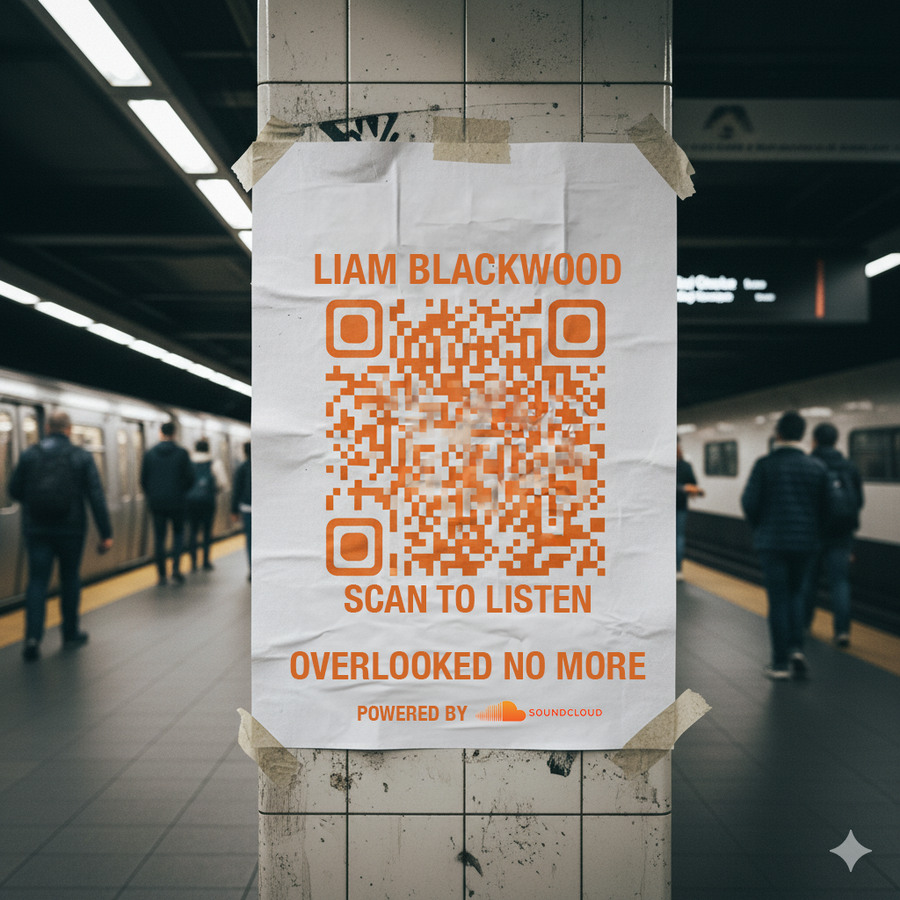
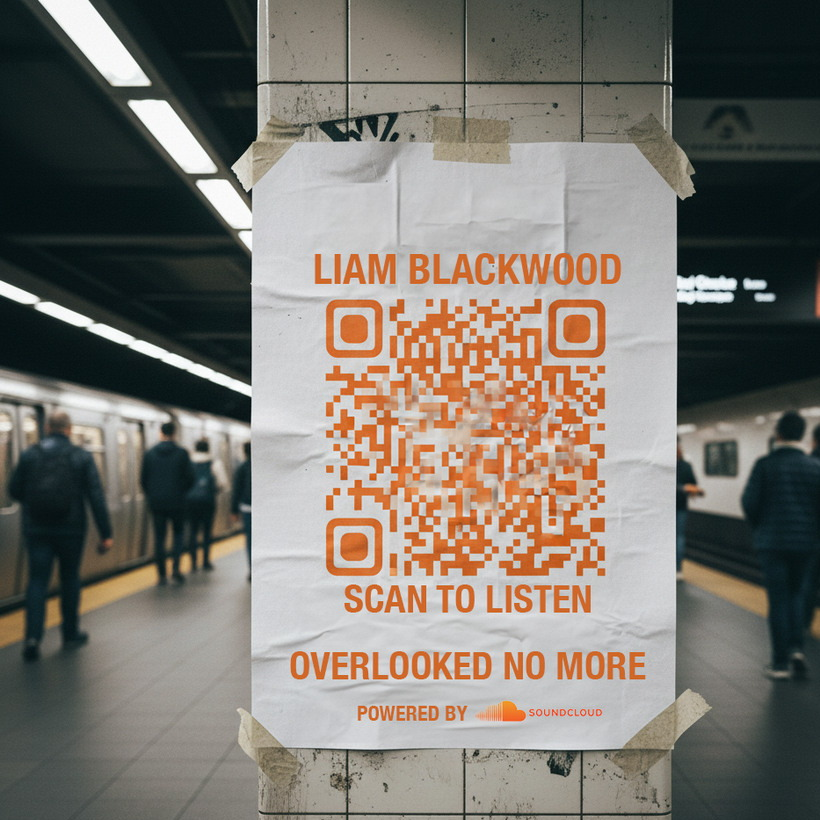
Crop the watermark off the AR shots, move the +600 stat under the lockup
Three of the AR images carried a generator sparkle in the bottom-right,
about 45px square and inset 30px from the corner. Trimmed the right and
bottom edges past it so each frame stays 1:1 and the subway/corner pair
stays matched: ar-corner and ar-subway 900 to 820, ar-poster 1024 to 936.
Updated the width and height attributes to match.

The Ginkgo duo pairs a 9:16 film with a 4:5 lockup, so the right column
ended 341px short. The +600 stat now sits in that gap, bottom-aligned
with the film so the row closes on one line, and all four stat figures
come down about a fifth.

Claude-Session: https://claude.ai/code/session_01JEuyM9BFofSz7ud4NwGMZi

diff --git a/project-magnus-ginkgo.html b/project-magnus-ginkgo.html
@@ -109,11 +109,17 @@
       <button class="sound-btn" data-sound>Sound on</button>
       <figcaption class="meta">Opening film.</figcaption>
     </figure>
-    <figure class="figure">
-      <img width="1080" height="1350" src="assets/magnus/06-ginkgo-2026-lockup.jpg"
-           alt="Ginkgo 2026 collection lockup with the Magnus wordmark" loading="lazy" data-mask>
-      <figcaption class="meta">The collection lockup. The leaf printed by hand, then scanned back in.</figcaption>
-    </figure>
+    <div class="duo__stack">
+      <figure class="figure">
+        <img width="1080" height="1350" src="assets/magnus/06-ginkgo-2026-lockup.jpg"
+             alt="Ginkgo 2026 collection lockup with the Magnus wordmark" loading="lazy" data-mask>
+        <figcaption class="meta">The collection lockup. The leaf printed by hand, then scanned back in.</figcaption>
+      </figure>
+      <div class="stat">
+        <p class="stat__fig">+600</p>
+        <p class="stat__note">New followers across the same thirty days.</p>
+      </div>
+    </div>
   </div>
 
   <!-- Both are 16:9, so they pair without cropping and the chapter stops
@@ -131,11 +137,6 @@
       <button class="sound-btn" data-sound>Sound on</button>
       <figcaption class="meta">Behind the scenes.</figcaption>
     </figure>
-  </div>
-
-  <div class="stat" data-reveal>
-    <p class="stat__fig">+600</p>
-    <p class="stat__note">New followers across the same thirty days.</p>
   </div>
 
   <div class="col2">

diff --git a/assets/css/style.css b/assets/css/style.css
@@ -672,6 +672,16 @@ body::after{
 .duo > *{margin-block:0;}
 @media (max-width:700px){.duo{grid-template-columns:1fr;}}
 
+/* The 9:16 film runs taller than the 4:5 lockup, so the right column ends
+   early. The launch stat fills that gap and bottom-aligns with the film, so
+   the row closes on one straight line instead of a ragged edge. */
+.duo__stack{display:flex;flex-direction:column;align-self:stretch;}
+.duo__stack > .figure{margin-block:0;}
+.duo__stack > .stat{margin:auto 0 0;padding-block:clamp(20px,3.2vh,38px);}
+.duo__stack > .stat .stat__fig{font-size:clamp(2.2rem,4.4vw,4rem);}
+.duo__stack > .stat .stat__note{font-size:var(--fs-body);max-width:26ch;}
+@media (max-width:700px){.duo__stack > .stat{margin-top:clamp(20px,3.4vh,34px);}}
+
 /* Video covers in the gallery tiles */
 .card__media video{width:100%;height:100%;object-fit:cover;display:block;
   transition:transform 1.1s var(--ease);}
@@ -696,7 +706,7 @@ body::after{
   border-block:1px solid var(--line);
   margin-block:clamp(30px,5vh,70px);
 }
-.stat__fig{font-size:clamp(3.2rem,8.5vw,7rem);font-weight:600;
+.stat__fig{font-size:clamp(2.7rem,7vw,5.6rem);font-weight:600;
   letter-spacing:-.05em;line-height:.85;white-space:nowrap;}
 .stat__note{font-size:var(--fs-md);line-height:1.34;letter-spacing:-.018em;
   color:var(--muted);max-width:28ch;}

diff --git a/project-soundcloud.html b/project-soundcloud.html
@@ -133,15 +133,15 @@
     </div>
 
     <figure class="figure figure--inset" data-reveal style="max-width:min(720px,100%)">
-      <img width="1024" height="1024" src="assets/soundcloud/ar-poster.jpg"
+      <img width="936" height="936" src="assets/soundcloud/ar-poster.jpg"
            alt="Pasted SoundCloud poster being scanned, launching an AR player" loading="lazy" data-mask>
       <figcaption class="meta">Scanned off a wall, playing in seconds.</figcaption>
     </figure>
 
     <figure class="figure figure--two" data-reveal style="max-width:min(1440px,100%);margin-inline:auto">
-      <img width="900" height="900" src="assets/soundcloud/ar-subway.jpg"
+      <img width="820" height="820" src="assets/soundcloud/ar-subway.jpg"
            alt="The same poster pasted on a subway platform" loading="lazy" data-mask>
-      <img width="900" height="900" src="assets/soundcloud/ar-corner.jpg"
+      <img width="820" height="820" src="assets/soundcloud/ar-corner.jpg"
            alt="The same poster pasted on a street corner" loading="lazy" data-mask>
       <figcaption class="meta">Platform and corner. The same sheet, wherever there is a wall.</figcaption>
     </figure>
